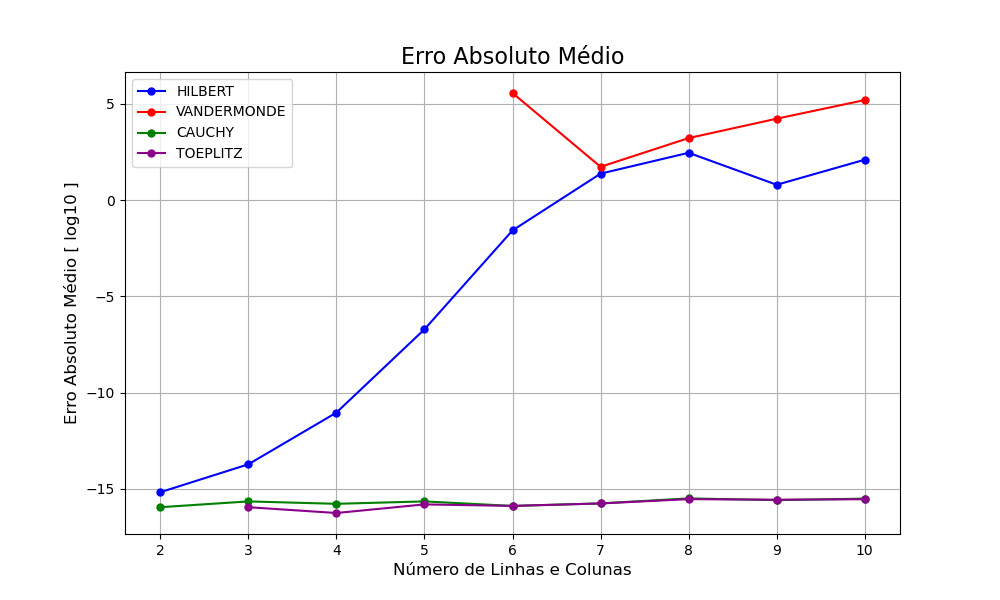
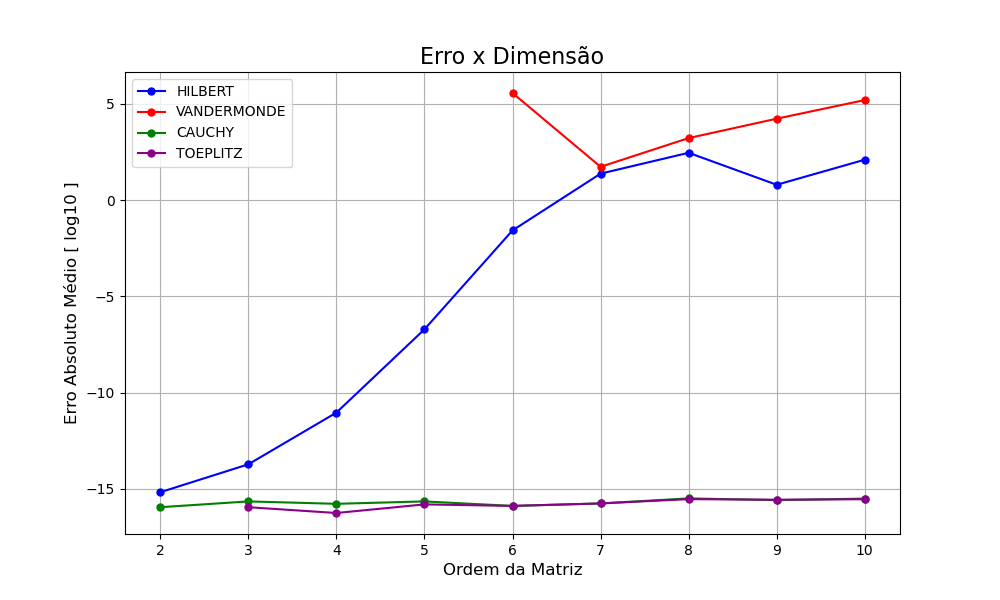
QR decomposition

Changed region(s): [[0.403, 0.06, 0.62, 0.12], [0.372, 0.93, 0.651, 0.96]]

diff --git a/main2.py b/main2.py
@@ -2,7 +2,7 @@ import numpy as np
 import shelve
 from scipy.stats import linregress
 from matrix import hilbert_matrix, vandermonde_matrix, cauchy_matrix, toeplitz_matrix
-from methods import cramer
+from linear_methods import cramer
 import plot
 
 
@@ -145,18 +145,18 @@ for m in _RESULT:
 labels = list( _TIME_RESULT.keys( ) )
 y_list = [ np.log10( value ) for value in _TIME_RESULT.values( ) ]
 x_list = [ _DIMENSIONS for _ in range( 4 ) ]
-f = plot.line_plot( x_list, y_list, labels, x_label = 'Número de Linhas e Colunas', y_label = 'Tempo de Processamento [ log10 ]', title = 'Tempo x Dimensão', xtick_format = int, colors = list( _COLORS.values( ) ), marker = 'o' )
+f = plot.line_plot( x_list, y_list, labels, x_label = 'Ordem da Matriz', y_label = 'Tempo de Processamento [ log10 ]', title = 'Tempo x Dimensão', xtick_format = int, colors = list( _COLORS.values( ) ), marker = 'o' )
 f.savefig( _FIGURE_FOLDER + '4_tempo_dimensao.png' )
 
 
 _REGRESSION = { }
 for i, m in enumerate( _MATRIX_NAMES ):
-    slope, intercept, r_value, p_value, stderr = linregress( x_list[ i ][ 6 : ], y_list[ i ][ 6 : ] )
+    slope, intercept, r_value, p_value, stderr = linregress( x_list[ i ][ 4 : ], y_list[ i ][ 4 : ] )
     _REGRESSION[ m ] = ( slope, intercept )
 
-a = _REGRESSION[ 'HILBERT' ][ 0 ]
-b = _REGRESSION[ 'HILBERT' ][ 1 ]
-time0 =  ( 10 ** ( a * 12 + b ) ) / 3600
+a = _REGRESSION[ 'TOEPLITZ' ][ 0 ]
+b = _REGRESSION[ 'TOEPLITZ' ][ 1 ]
+time0 =  ( 10 ** ( a * 15 + b ) ) / ( 3600 * 24 )
 
 
 height_list = [ ]
@@ -166,7 +166,7 @@ for m in _MATRIX_NAMES:
     error = s.calculate_true_error( reference = np.full( 8, 1. ) )
     height_list.append( np.log10( error ) )
 
-f = plot.bar_plot( height_list = height_list, labels = _MATRIX_NAMES, y_label = 'Erro Absoluto Médio [ log10 ]', colors = list( _COLORS.values( ) ), title = 'Erro Absoluto Médio - Matriz 8x8' )
+f = plot.bar_plot( height_list = height_list, labels = _MATRIX_NAMES, y_label = 'Erro Absoluto Médio [ log10 ]', colors = list( _COLORS.values( ) ), title = 'Erro - Matriz 8x8' )
 f.savefig( _FIGURE_FOLDER + '5_erro_absoluto_medio_matriz_8x8.png' )
 
 
@@ -177,7 +177,7 @@ for m in _MATRIX_NAMES:
 
 y_list = list( _ERROR_RESULT.values( ) )
 x_list = [ _DIMENSIONS for _ in range( 4 ) ]
-f = plot.line_plot( x_list, y_list, labels, x_label = 'Número de Linhas e Colunas', y_label = 'Erro Absoluto Médio [ log10 ]', title = 'Erro Absoluto Médio', xtick_format = int, colors = list( _COLORS.values( ) ), marker = 'o' )
+f = plot.line_plot( x_list, y_list, labels, x_label = 'Ordem da Matriz', y_label = 'Erro Absoluto Médio [ log10 ]', title = 'Erro x Dimensão', xtick_format = int, colors = list( _COLORS.values( ) ), marker = 'o' )
 f.savefig( _FIGURE_FOLDER + '6_erro_dimensao.png' )
 
 

diff --git a/decomposition.py b/decomposition.py
@@ -1,0 +1,26 @@
+import numpy as np
+
+def qr_decomposition( A: np.ndarray ):
+    orthogonal = gram_schmidt( A )
+    Q_trans = np.asarray( orthogonal )
+    Q = Q_trans.transpose( )
+    R = np.dot( Q_trans, A )
+    return Q, R
+
+
+def gram_schmidt( A: np.ndarray ):
+    n_vectors = A.shape[ 1 ]
+
+    orthogonal = [ ]
+    for i in range( n_vectors ):
+        ai = A[ :, i ]
+        ui = ai
+        for j in range( i ):
+            ui -= proj( orthogonal[ -1 ], ai )
+        orthogonal.append( ui )
+
+    return orthogonal
+
+
+def proj( u: np.ndarray, a: np.ndarray ):
+    return ( np.cross( u, a ) / np.cross( u, u ) ) * u

diff --git a/test.py b/test.py
@@ -1,5 +1,5 @@
 import numpy as np
-from methods import gaussian_elimination, jacobi, gauss_seidel, gauss_jordan, lu_decomposition
+from linear_methods import gaussian_elimination, jacobi, gauss_seidel, gauss_jordan, lu_decomposition
 from matrix import hilbert_matrix, vandermonde_matrix, cauchy_matrix, toeplitz_matrix
 from random import uniform
 

diff --git a/main.py b/main.py
@@ -1,5 +1,5 @@
 import numpy as np
-from methods import gaussian_elimination, jacobi, gauss_seidel, gauss_jordan, lu_decomposition
+from linear_methods import gaussian_elimination, jacobi, gauss_seidel, gauss_jordan, lu_decomposition
 from matrix import hilbert_matrix, vandermonde_matrix, cauchy_matrix, toeplitz_matrix
 import plot as p
 
